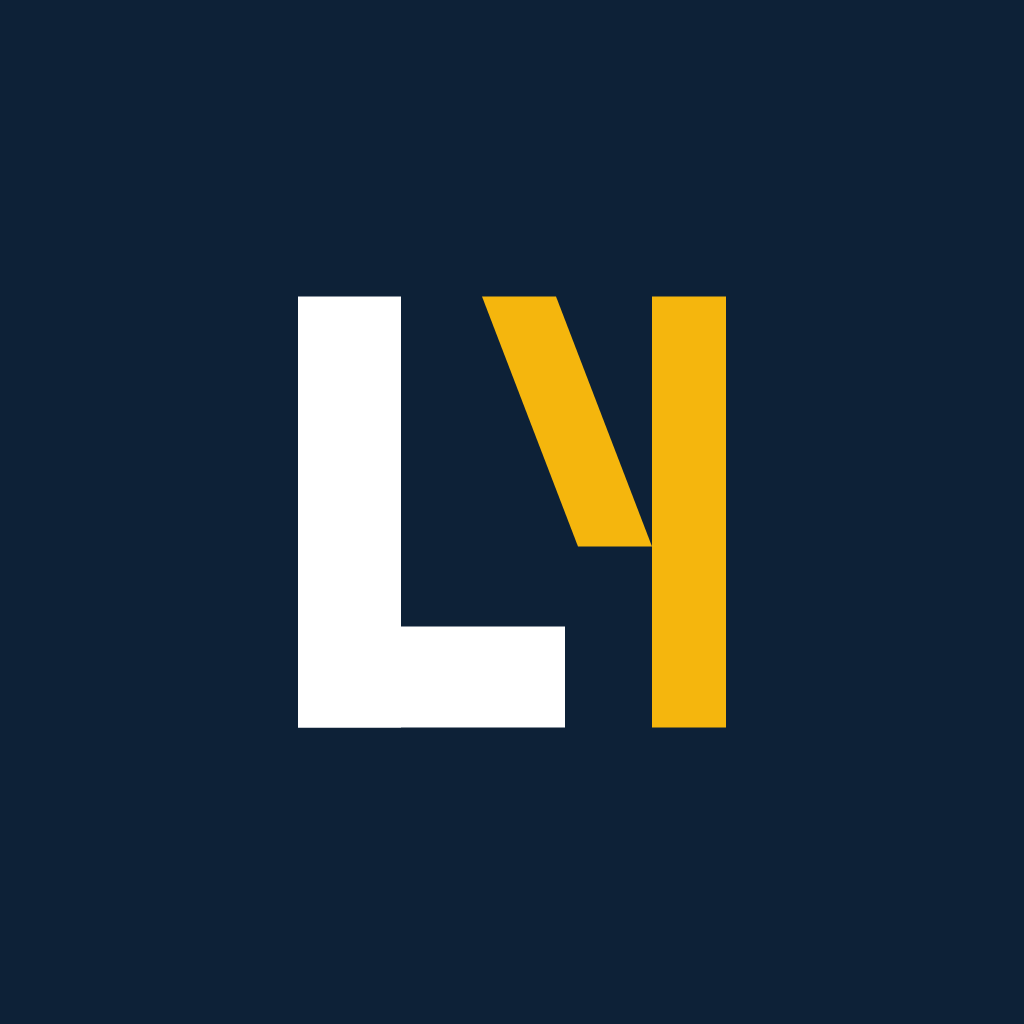
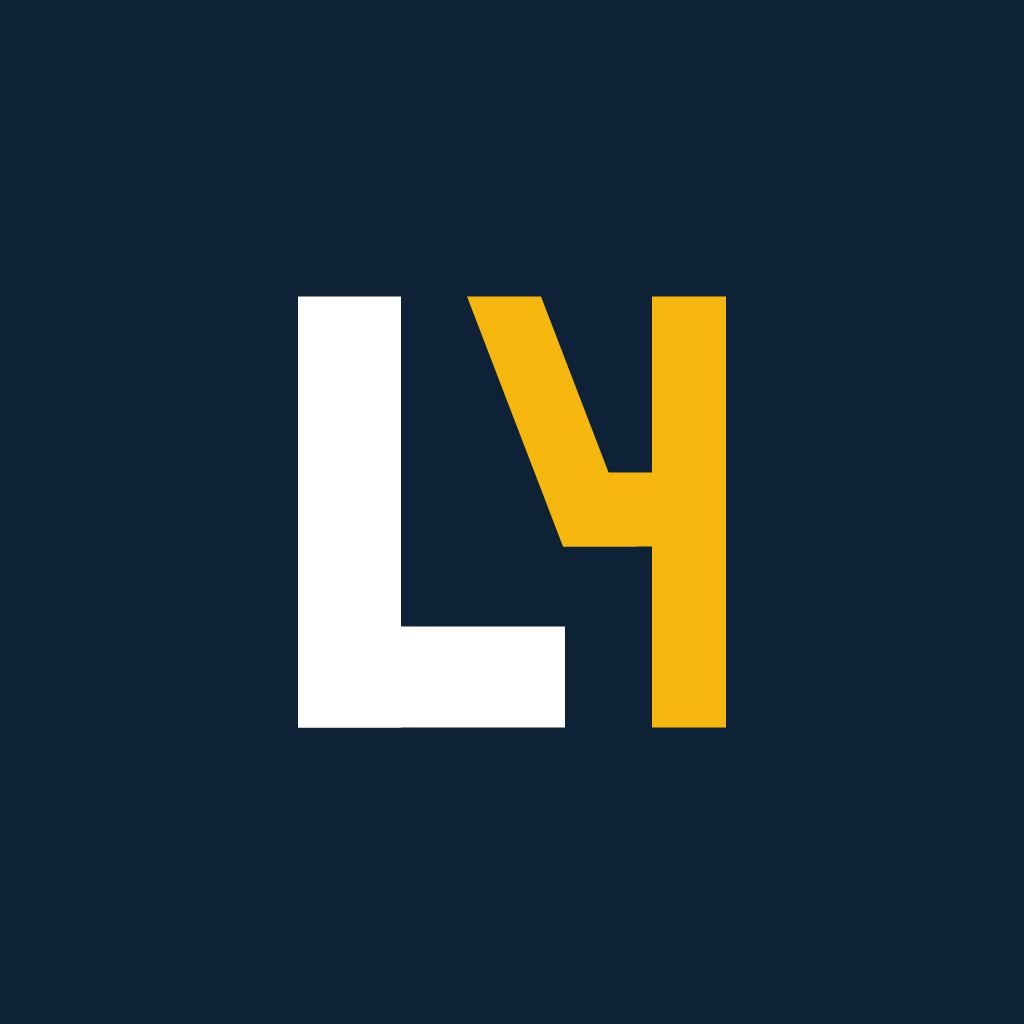
Liga o braço à haste por uma barra horizontal curta
O braço deixa de encostar na haste: para 15 px antes dela, e uma barra
horizontal de 89 px faz a junção. O encontro passa a ser uma peça montada, e
não dois traços que se tocam.

O comprimento dessa barra é a medida mais delicada do desenho, e vale deixar
registrado por quê. Braço, barra e haste fecham um triângulo — que é
exatamente como o algarismo **4** é construído. Com a barra em 148 px o âmbar
é lido como 4 antes de ser lido como letra, e o ícone volta a dizer uma coisa
que não é o nome, como dizia LI. Encurtando, a contra-forma reabre e a letra
volta: a 89 px, 40% menos, o 4 não se impõe mais.

A caixa do conjunto continua intacta: branco em x 298..564, âmbar terminando
em 725, os dois de y 297 a 726 — os mesmos números do arquivo original. O
braço recuou 15 px para a esquerda e continua a 66 px da haste do L.

Conferido a 240, 96, 48 e 32 px.

Claude-Session: https://claude.ai/code/session_01HTn5wSx3TH6ZHt4hdboDMt

Changed region(s): [[0.4375, 0.2812, 0.6562, 0.5312]]

diff --git a/scripts/render-app-icon.js b/scripts/render-app-icon.js
@@ -60,6 +60,18 @@ const G = {
   junction: 0.58,
   /** Quanto o braço anda na horizontal enquanto desce até encontrar a haste. */
   armRun: 96 / 431,
+
+  /*
+   * O braço não encosta na haste: para antes dela, e uma barra horizontal faz
+   * a junção.
+   *
+   * O comprimento dessa barra é a medida mais delicada do desenho. Fechando o
+   * triângulo entre braço, barra e haste, o âmbar passa a ser lido como o
+   * algarismo **4** — que é como o 4 é construído. Encurtar a barra reabre a
+   * contra-forma e devolve a letra; a 148 px o 4 é imediato, a 89 px ele já
+   * não se impõe.
+   */
+  armBack: 15 / 431,
 };
 
 const TOTAL_WIDTH = G.lWidth + G.gap + G.stroke;
@@ -79,7 +91,9 @@ function geometry(size, cap) {
 
   const stemLeft = x0 + (G.lWidth + G.gap) * cap;
   const junction = top + G.junction * cap;
-  const armLeft = stemLeft - (G.stroke + G.armRun) * cap;
+  const back = G.armBack * cap;
+  const armRight = stemLeft - back;
+  const armLeft = armRight - (G.stroke + G.armRun) * cap;
 
   return {
     lStem: [x0, top, G.lStem * cap, cap],
@@ -90,9 +104,11 @@ function geometry(size, cap) {
     yArm: [
       [armLeft, top],
       [armLeft + G.stroke * cap, top],
-      [stemLeft, junction],
-      [stemLeft - G.stroke * cap, junction],
+      [armRight, junction],
+      [armRight - G.stroke * cap, junction],
     ],
+    /* A barra de junção, apoiada na junção e encostando na haste. */
+    yLink: [armRight - G.stroke * cap, junction - G.stroke * cap, back + G.stroke * cap, G.stroke * cap],
   };
 }
 
@@ -118,6 +134,7 @@ function draw(CK, { size, cap, background, mono }) {
 
     paint.setColor(CK.parseColorString(mono ? WHITE : AMBER));
     canvas.drawRect(CK.XYWHRect(...g.yStem), paint);
+    canvas.drawRect(CK.XYWHRect(...g.yLink), paint);
 
     const arm = CK.Path.MakeFromSVGString(
       `M ${g.yArm.map(([x, y]) => `${x} ${y}`).join(' L ')} Z`,
